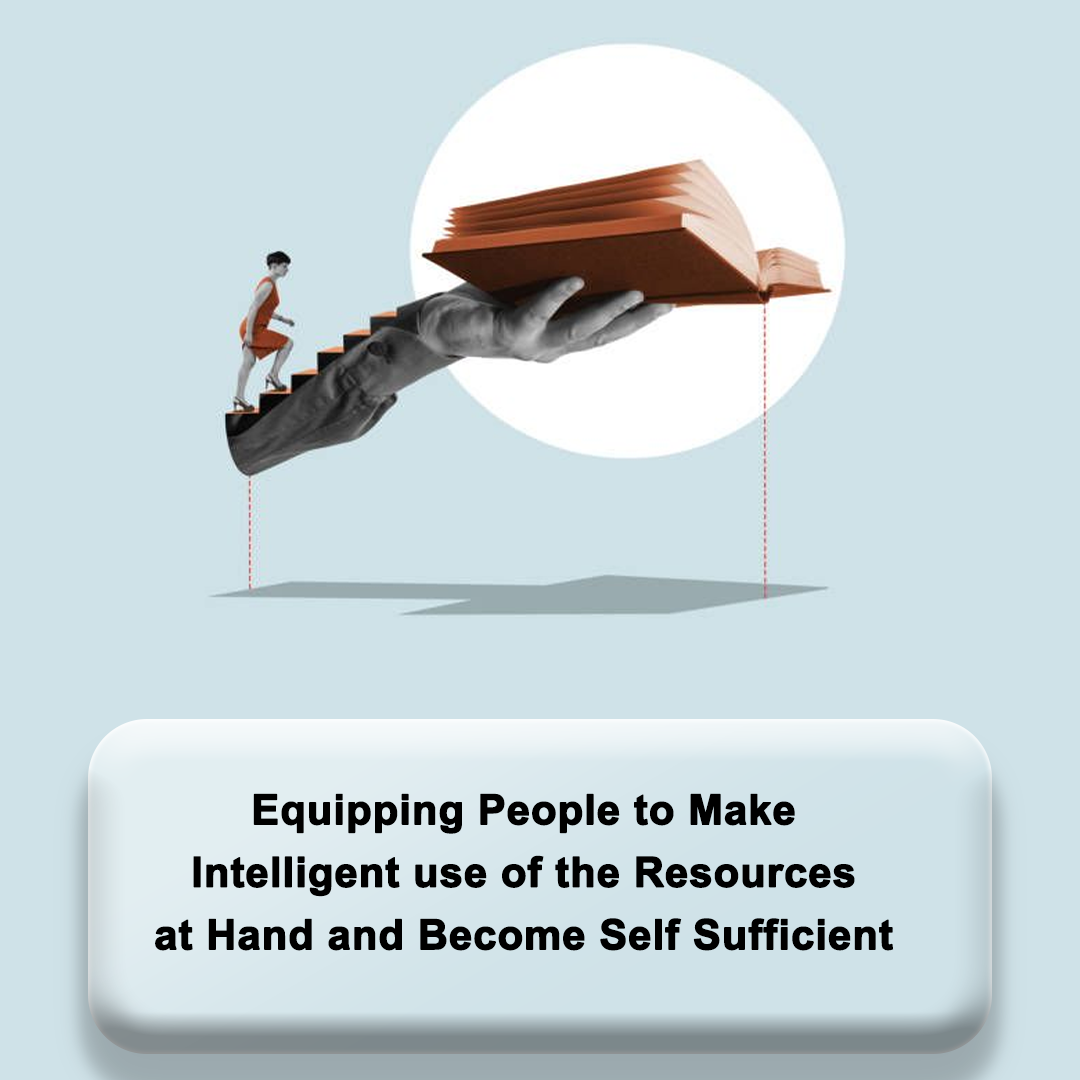
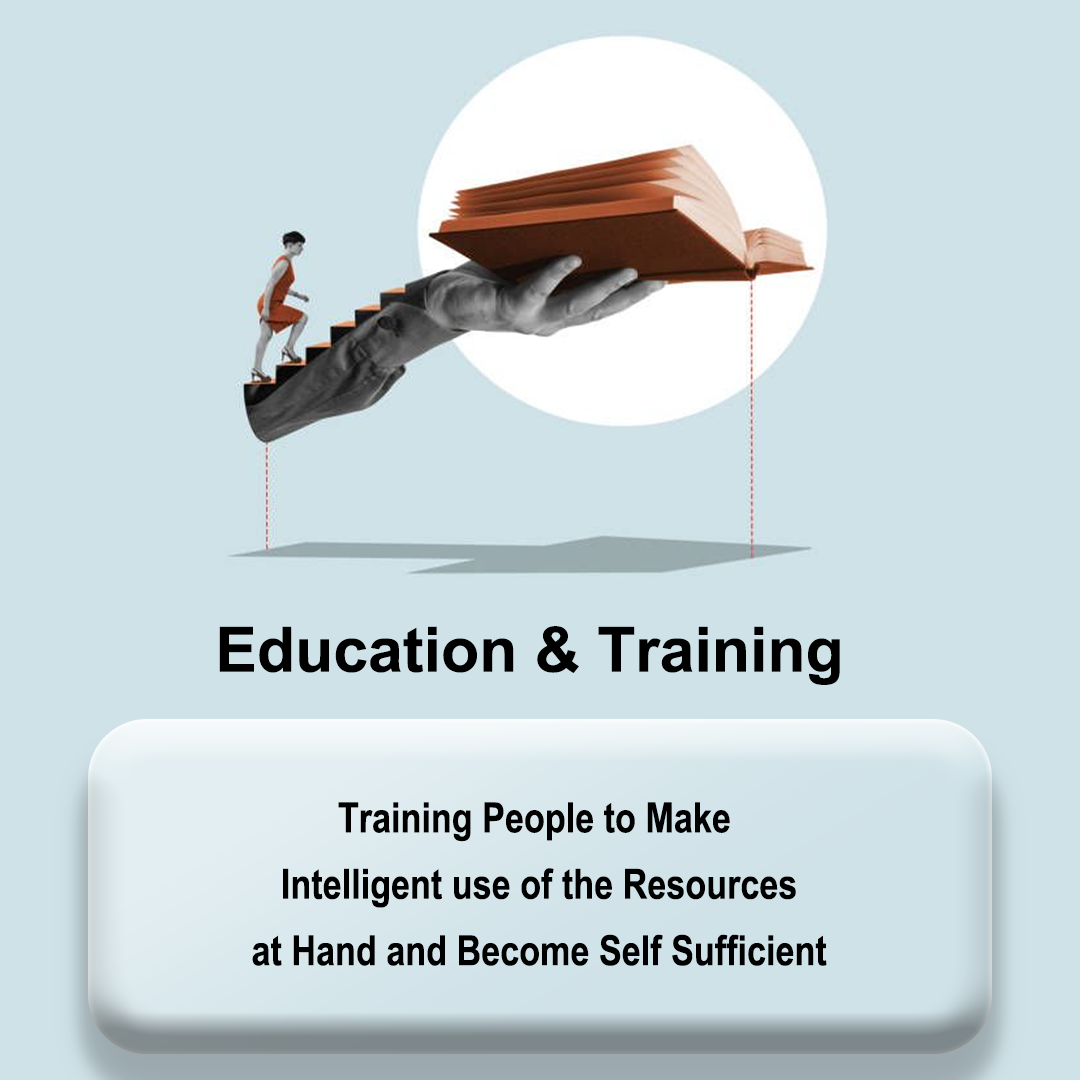
our mission section image change

diff --git a/src/sections/home/MissionSection.tsx b/src/sections/home/MissionSection.tsx
@@ -1,25 +1,19 @@
 const highlights = [
   {
-    icon: "🎓",
     title: "Education & Training",
-    description:
-      "Equipping people to make intelligent use of the resources at hand and become self sufficient",
+    href: '/education-design.png'
   },
   {
-    icon: "🐾",
     title: "Animal Welfare",
-    description:
-      "Helping people understand the needs of their animals and treat them with better care",
+    href: 'Animal Welfare.png'
   },
   {
-    icon: "🤝",
     title: "Community Welfare",
-    description: "To join the fight against drugs and help with rehabilitation, while also providing necessary care & support to the elderly",
+    href: 'Community Welfare.png'
   },
   {
-    icon: "🌱",
     title: "Holistic Growth",
-    description: "Nurturing mind, body, and soul for balanced development.",
+    href: 'Holistic Growth.png'
   },
 ];
 
@@ -27,21 +21,19 @@ const highlights = [
 const MissionSection = () => {
   return (
     <section className="py-16 bg-gray-50">
-      <div className="max-w-6xl mx-auto px-4 text-center">
+      <div className="max-w-7xl mx-auto px-4 text-center">
         <h2 className="text-3xl md:text-4xl font-bold mb-3">Our Mission</h2>
-        <div className="w-24 h-1 bg-gradient-to-r from-[var(--primary-main)] to-blue-500 mx-auto mb-6 rounded-full"></div>
+        <div className="w-24 h-1 bg-gradient-to-r from-[var(--primary-main)] to-blue-500 mx-auto mb-6 rounded-3xl hover:rounded-[0px] transition-all duration-500
+        "></div>
 
-        <div className="grid grid-cols-1 sm:grid-cols-2 lg:grid-cols-4 gap-8">
+        <div className="flex flex-wrap justify-center gap-8 w-full">
           {highlights.map((item, index) => (
             <div
               key={index}
-              className="bg-white shadow-lg rounded-2xl p-6 hover:shadow-xl transition-all"
+              className="bg-white shadow-lg rounded-2xl hover:shadow-xl transition-all w-full sm:w-[calc(50%-1rem)] lg:w-[calc(25%-1.5rem)] flex-shrink-0 h-80 lg:h-96"
             >
-              <div className="text-5xl mb-4">{item.icon}</div>
-              <h3 className="text-xl font-semibold text-gray-800 mb-2">
-                {item.title}
-              </h3>
-              <p className="text-gray-600 text-sm">{item.description}</p>
+              <img src={item.href} alt={item.title} className="w-full h-full rounded-3xl object-cover hover:rounded-[0px] transition-all duration-500" />
+              {/* <p className="text-gray-600 text-sm">{item.description}</p> */}
             </div>
           ))}
         </div>
